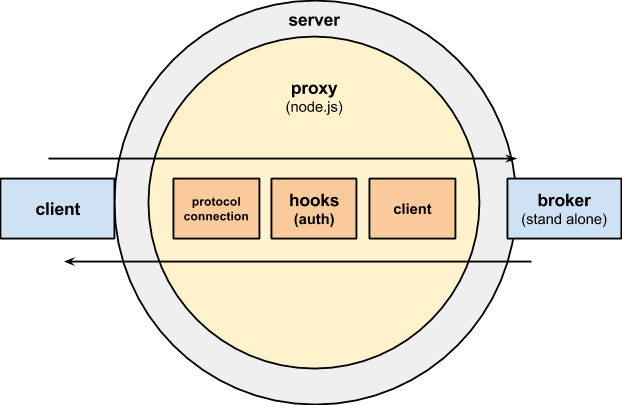
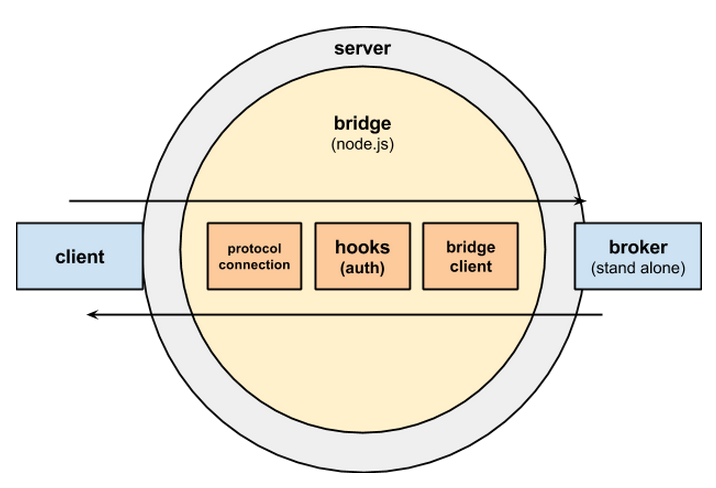
Rename proxy to bridge

Changed region(s): [[0.0, 0.0, 1.0, 1.0], [0.4582, 0.2074, 0.5498, 0.3259], [0.3666, 0.0296, 0.3971, 0.0593]]

diff --git a/index.js b/index.js
@@ -8,7 +8,7 @@ function noop() {};
 /**
  * The Client class provides a unified pubsub client in node.js and browsers. It
  * supports subscribing to topics or topic patterns (topics + wildcards). Clients
- * can connect to brokers or proxies that support the client.adapter’s protocol.
+ * can connect to brokers or bridges that support the client.adapter’s protocol.
  *
  * ```js
  * var Client = require('strong-pubsub');
@@ -52,7 +52,7 @@ function Client(options, Adapter, transport) {
 inherits(Client, EventEmitter);
 
 /**
- * Connect to the broker or proxy.
+ * Connect to the broker or bridge.
  *
  * @callback {Function} callback Added as a `once` listener to the `connect` event.
  * @param {Error} err A connection error (if one occured).
@@ -83,7 +83,7 @@ Client.prototype.connect = function(cb) {
 }
 
 /**
- * Disconnect from the broker or proxy.
+ * Disconnect from the broker or bridge.
  *
  * @callback {Function} callback Added as a `once` listener to the `connect` event.
  * @param {Error} err A connection error (if one occured).

diff --git a/README.md b/README.md
@@ -27,29 +27,27 @@ ebert.publish('movies', 'birdman');
 ## Client (strong-pubsub)
 
 The `Client` class provides a unified pubsub client in Node.js and browsers. It supports subscribing 
-to topics or topic patterns (topics and wildcards). Clients can connect to brokers or proxies that support 
+to topics or topic patterns (topics and wildcards). Clients can connect to brokers or bridges that support 
 the `client.adapter`’s protocol.
 
-## Proxy ([strong-pubsub-proxy](https://github.com/strongloop/strong-pubsub-proxy))
+## Bridge ([strong-pubsub-bridge](https://github.com/strongloop/strong-pubsub-bridge))
 
-In some cases, clients should not connect directly to a message broker. The Proxy class allows you to create a bridge between a client connecting to your **node.js** server and a broker. It supports hooks for injecting logic before the 
-proxy performs an action on behalf of the client. Hooks allow you to implement client authentication and client action (publish, subscribe) 
+In some cases, clients should not connect directly to a message broker. The Bridge class allows you to create a bridge between a client connecting to your **node.js** server and a broker. It supports hooks for injecting logic before the bridge performs an action on behalf of the client. Hooks allow you to implement client authentication and client action (publish, subscribe) 
 authorization using vanilla node.js (usually in place of broker specific access controls and authentication).
 
-Proxies also allow clients to connect to brokers over a protocol that the broker may not support. 
-For example, a client can connect to the proxy using one protocol (eg. MQTT) and the proxy will connect 
+Bridges also allow clients to connect to brokers over a protocol that the broker may not support. For example, a client can connect to the bridge using one protocol (eg. MQTT) and the bridge will connect 
 to the broker using another (eg. **Redis** or **STOMP**).
 
-![Proxy](/assets/proxy.png "Pubsub Proxy")
+![Bridge](/assets/bridge.png "Pubsub Bridge")
 
-Note: It is not possible to guarantee all features when bridging connections of one protocol to a broker that speaks another protocol. For example MQTT quality of service (`options.qos`) will be not be guaranteed when a proxy is accepting MQTT protocol connections and bridging to a redis broker.
+**Note:** It is not possible to guarantee all features when bridging connections of one protocol to a broker that speaks another protocol. For example MQTT quality of service (`options.qos`) will be not be guaranteed when a bridge is accepting MQTT protocol connections and bridging to a redis broker.
 
-### Creating a proxy
+### Creating a bridge
 
-Here is an example setting up a proxy. This would proxy messages between MQTT clients and a RabbitMQ server.
+Here is an example setting up a bridge. This would bridge messages between MQTT clients and a RabbitMQ server.
 
 ```js
-// my-proxy-server.js
+// my-bridge-server.js
 var server = require('./my-existing-server');
 
 var Adapter = require('strong-pubsub-mqtt');
@@ -58,7 +56,7 @@ var Connection = require('strong-pubsub-connection-mqtt');
 
 server.on('connection', function(connection) {
   mqttConnection = new Connection(connection);
-  var proxy = new Proxy(mqttConnection, client);
+  var bridge = new Bridge(mqttConnection, client);
 });
 ```
 
@@ -66,7 +64,7 @@ server.on('connection', function(connection) {
 
 To distribute a message published to a topic, a client connects to a message broker. 
 Client adapters allow pubsub clients to connect to various brokers. Clients can connect directly 
-to brokers or indirectly using a proxy.
+to brokers or indirectly using a bridge.
  
 ## Adapter
 
@@ -103,11 +101,11 @@ A module (or object) that implements `net.createConnection()`.
 
 ## Connection
 
-A Protocol connection implements a specific pubsub protocol in Node.js for use by strong-pubsub-proxy.
+A Protocol connection implements a specific pubsub protocol in Node.js for use by strong-pubsub-bridge.
  
 ## Architecture
 
-This diagram illustrates how messages flow between clients, proxies, servers and brokers. 
+This diagram illustrates how messages flow between clients, bridges, servers and brokers. 
 The blue arrows represent a message published to a topic. The green arrow represents the message 
 being sent to a subscriber.
 
@@ -115,7 +113,7 @@ being sent to a subscriber.
  
 ## Modules / Plugins
 
-- [strong-pubsub-proxy](http://github.com/strongloop/strong-pubsub-proxy)
+- [strong-pubsub-bridge](http://github.com/strongloop/strong-pubsub-bridge)
 - [strong-pubsub-mqtt](http://github.com/strongloop/strong-pubsub-mqtt)
 - [strong-pubsub-redis](http://github.com/strongloop/strong-pubsub-redis)
 - [strong-pubsub-connection-mqtt](http://github.com/strongloop/strong-pubsub-connection-mqtt)
